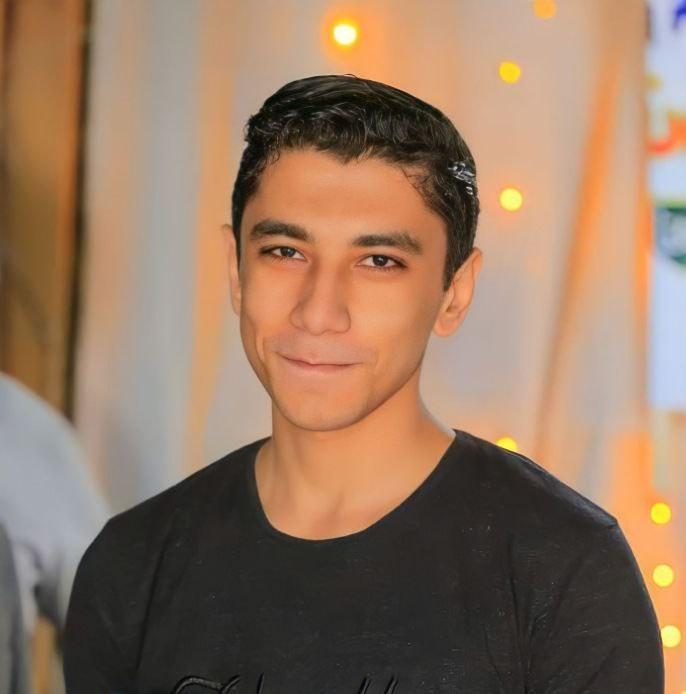
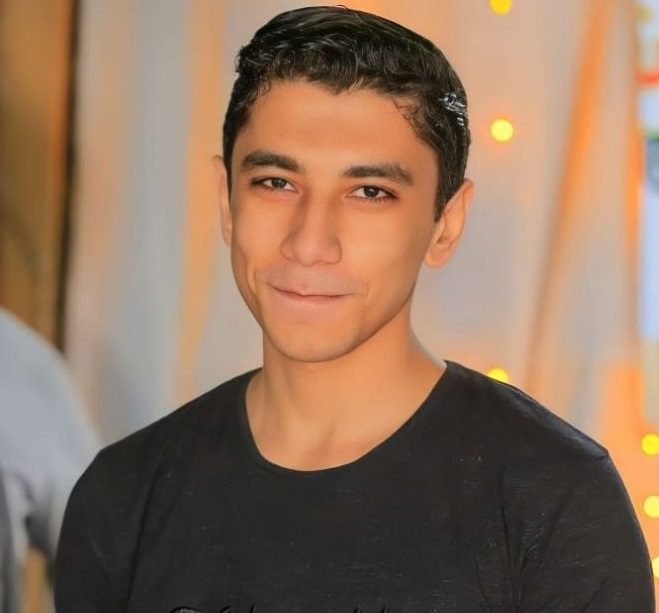
add PWA to Project & solve some problems and add image to collaboration component

diff --git a/components/Home/CollaborationSection.tsx b/components/Home/CollaborationSection.tsx
@@ -4,7 +4,8 @@ import RollingLink from "@/components/RollingLink";
 import WindowCard from "@/components/WindowCard";
 import { motion } from "motion/react";
 import { TextAnimate } from "../ui/text-animate";
-
+import Image from "next/image";
+import myImage from "@images/my-image.jpg";
 export default function CollaborationSection() {
   return (
     <div className="py-14 flex flex-col gap-16 w-full items-center">
@@ -15,15 +16,20 @@ export default function CollaborationSection() {
         title="Collaboration"
         description={[
           <div
-            className="flex flex-col lg:flex-row gap-9 justify-between md:p-5 p-4 py-16"
+            className="flex flex-col md:flex-row gap-9 md:justify-between md:items-start items-center justify-center md:p-5 p-0 py-16"
             key={0}>
-            <div className="lg:w-35 w-30 h-30 rounded-full border border-border-color relative">
+            <div className="w-40 h-40 rounded-full border border-border-color relative">
+              <Image
+                src={myImage}
+                alt="my image"
+                className="w-40 h-40 rounded-full object-cover object-top"
+              />
               <div className="absolute right-0 bottom-0 w-10 h-10 border border-border-color bg-card-black rounded-full flex items-center justify-center">
                 &#128075;
               </div>
             </div>
 
-            <div className="flex flex-col gap-10 w-full">
+            <div className="flex flex-col gap-10 flex-1 text-center items-center md:text-left md:items-start">
               <TextAnimate
                 animation="blurInUp"
                 by="word"

diff --git a/components/MainHeroSection.tsx b/components/MainHeroSection.tsx
@@ -18,16 +18,16 @@ export default function MainHeroSection({
       <div className="flex flex-col gap-1 items-center">
         <p className="text-low-color">{page}</p>
 
-        <div className="lg:text-7xl md:text-5xl text-4xl text-center font-medium">
-          <TextAnimate animation="blurInUp" by="character">
+        <div className="lg:text-7xl md:text-5xl text-4xl text-center font-medium flex-wrap">
+          <TextAnimate animation="blurInUp" by="word">
             {Toptitle}
           </TextAnimate>
-          <div className="flex items-center gap-0.5 text-center justify-center">
+          <div className="flex items-center gap-0.5 text-center justify-center flex-wrap">
             {Secondtitle && (
               <TextAnimate
                 delay={0.3}
                 animation="blurInUp"
-                by="character"
+                by="word"
                 as={"span"}>
                 {Secondtitle}
               </TextAnimate>
@@ -37,7 +37,7 @@ export default function MainHeroSection({
               delay={0.4}
               className="text-main-color"
               animation="blurInUp"
-              by="character"
+              by="word"
               as={"span"}>
               {ShineyTxt}
             </TextAnimate>

diff --git a/components/Layout/FooterLinks.tsx b/components/Layout/FooterLinks.tsx
@@ -11,7 +11,7 @@ export default function FooterLinks() {
       transition={{ duration: 0.4, delay: 3.4 }}
       className="w-full h-full flex items-center justify-between">
       <CurrentLocation />
-      <div className="text-center pl-20 md:flex items-center gap-3 mx-auto text-sm opacity-80 hidden">
+      <div className="text-center pl-20 lg:flex items-center gap-3 mx-auto lg:text-sm text-xs opacity-80 hidden">
         <p>Developed With &#10084;</p>
         <p>Based in Egypt</p>
       </div>
@@ -19,7 +19,7 @@ export default function FooterLinks() {
         {/* Socials */}
         <SocialsIcons
           iconWidth="small"
-          mainClasses="gap-4 opacity-80 hidden lg:flex"
+          mainClasses="gap-4 opacity-80 hidden xl:flex"
         />
 
         <RollingLink
@@ -27,7 +27,7 @@ export default function FooterLinks() {
           linkTo="/contact"
           title="Get in touch"
           delay={0.5}
-          classes="px-4 py-1.5 sm:text-sm text-xs"
+          classes="px-4 py-1.5 lg:text-sm text-xs"
         />
       </div>
     </motion.div>

diff --git a/components/Layout/SmallNavbar.tsx b/components/Layout/SmallNavbar.tsx
@@ -21,7 +21,7 @@ export default function SmallNavbar() {
       </button>
       <div
         ref={smallNavRef}
-        className="bg-[#00000099] overflow-hidden duration-300 z-50 p-0 backdrop-blur-sm shadow-lg absolute left-0 top-10.25 w-[calc(100vw-1rem)] h-0">
+        className="bg-[#00000099] overflow-hidden duration-300 z-1000000 p-0 backdrop-blur-sm shadow-lg absolute left-0 top-10.25 w-[calc(100vw-1rem)] h-0">
         <div className="flex flex-col gap-3 p-5 border-x border-border-color h-full border-b">
           <button
             onClick={HandleNavbarToggleing}
@@ -30,7 +30,7 @@ export default function SmallNavbar() {
           </button>
           <ul className="w-full flex flex-col gap-6">
             {RoutesLinks.map((link, i) => (
-              <li key={link.title} className="text-3xl font-medium">
+              <li key={link.title} className="text-3xl font-medium w-fit">
                 <Link
                   onClick={HandleNavbarToggleing}
                   className="w-full flex items-center gap-3"

diff --git a/components/ImageWidowCard.tsx b/components/ImageWidowCard.tsx
@@ -9,7 +9,7 @@ export default function ImageWidowCard() {
       whileInView={{ opacity: 1 }}
       transition={{ duration: 1, delay: 0.3 }}
       viewport={{ once: true }}
-      className="bg-[#0f0f0f30] backdrop-blur-sm w-96 h-full border border-border-color">
+      className="bg-[#0f0f0f30] backdrop-blur-sm sm:w-80 w-full h-full border border-border-color">
       {/*Top  */}
       <div className="border-b border-border-color px-3 py-1.5 flex items-center justify-between gap-3">
         <p>Portait</p>
@@ -21,12 +21,12 @@ export default function ImageWidowCard() {
       </div>
 
       {/* Bottom */}
-      <div className="w-full h-70 ">
-        {/* <Image
+      <div className="w-full md:h-70 overflow-hidden">
+        <Image
           src={myImage}
           alt="My image"
-          className="w-full object-cover object-center"
-        /> */}
+          className="w-full object-cover object-top"
+        />
       </div>
     </motion.div>
   );

diff --git a/app/manifest.ts b/app/manifest.ts
@@ -1,0 +1,35 @@
+import type { MetadataRoute } from "next";
+
+export default function manifest(): MetadataRoute.Manifest {
+  return {
+    name: "Ibrahim Saleh - Portfolio",
+    short_name: "Ibrahim",
+    description:
+      "Portfolio of Ibrahim Saleh, Frontend Developer specialized in Next.js, React, and modern web technologies.",
+    start_url: "/",
+    scope: "/",
+    display: "standalone",
+    orientation: "portrait",
+    background_color: "#0c0c0c",
+    theme_color: "#8fff86",
+    lang: "en",
+    icons: [
+      {
+        src: "/icons/icon-192.png",
+        sizes: "192x192",
+        type: "image/png",
+      },
+      {
+        src: "/icons/icon-512.png",
+        sizes: "512x512",
+        type: "image/png",
+      },
+      {
+        src: "/icons/icon-512-maskable.png",
+        sizes: "512x512",
+        type: "image/png",
+        purpose: "maskable",
+      },
+    ],
+  };
+}

diff --git a/components/About/TechnologySection.tsx b/components/About/TechnologySection.tsx
@@ -5,8 +5,8 @@ import TeachnologeisCard from "./TeachnologeisCard";
 export default function TechnologySection() {
   return (
     <div className="py-20 flex flex-col gap-15 items-center w-full">
-      <div className="flex items-center justify-center text-center flex-col lg:text-6xl md:text-5xl text-4xl gap-0.5">
-        <TextAnimate animation="blurIn" by="character" as={"p"}>
+      <div className="flex items-center justify-center flex-col lg:text-7xl sm:text-5xl text-2xl text-center gap-0.5">
+        <TextAnimate animation="blurIn" by="word" as={"p"}>
           Some of the techs I like to
         </TextAnimate>
         <TextAnimate

diff --git a/components/Layout/CurrentLocation.tsx b/components/Layout/CurrentLocation.tsx
@@ -14,7 +14,7 @@ export default function CurrentLocation() {
           animate={{ opacity: 1 }}
           exit={{ opacity: 0 }}
           transition={{ duration: 0.6 }}
-          className=" hidden sm:flex items-center gap-2 px-3 text-sm">
+          className=" hidden sm:flex items-center gap-2 px-3 lg:text-sm text-xs">
           <Link className="text-low-color" href={"/"}>
             <House className="w-4 h-4" />
           </Link>

diff --git a/app/globals.css b/app/globals.css
@@ -27,7 +27,7 @@
     "main-footer main-footer";
   height: calc(100vh - 0.6rem);
 }
-@media (max-width: 768px) {
+@media (max-width: 767px) {
   .frame-content {
     grid-template-areas:
       "main-top main-top"
@@ -199,7 +199,8 @@
 }
 
 body {
-  background: radial-gradient(
+  background:
+    radial-gradient(
       600px 600px at 15% 75%,
       rgba(32, 64, 32, 0.35),
       transparent 70%

diff --git a/components/Projects/ShowProjectDetails.tsx b/components/Projects/ShowProjectDetails.tsx
@@ -38,7 +38,7 @@ export default function ShowProjectDetails({
         <TextAnimate
           className="lg:text-7xl md:text-5xl text-4xl text-center font-medium"
           animation="blurInUp"
-          by="character">
+          by="word">
           {name}
         </TextAnimate>
         <div className="flex items-center gap-3 flex-wrap mt-10 justify-center">

diff --git a/components/ProjectCard.tsx b/components/ProjectCard.tsx
@@ -47,7 +47,7 @@ export default function ProjectCard({
               <TextAnimate
                 delay={0.3}
                 animation="blurInUp"
-                by="character"
+                by="word"
                 className="md:text-3xl text-2xl font-medium"
                 as={"p"}>
                 {title}

diff --git a/components/About/AboutInfoSection.tsx b/components/About/AboutInfoSection.tsx
@@ -27,7 +27,7 @@ export default function AboutInfoSection() {
         <WindowCard
           withNumbers={true}
           delay={0.4}
-          classes="lg:w-176 w-full"
+          classes="lg:w-160 w-full"
           title="My Socials"
           description={[
             <a
